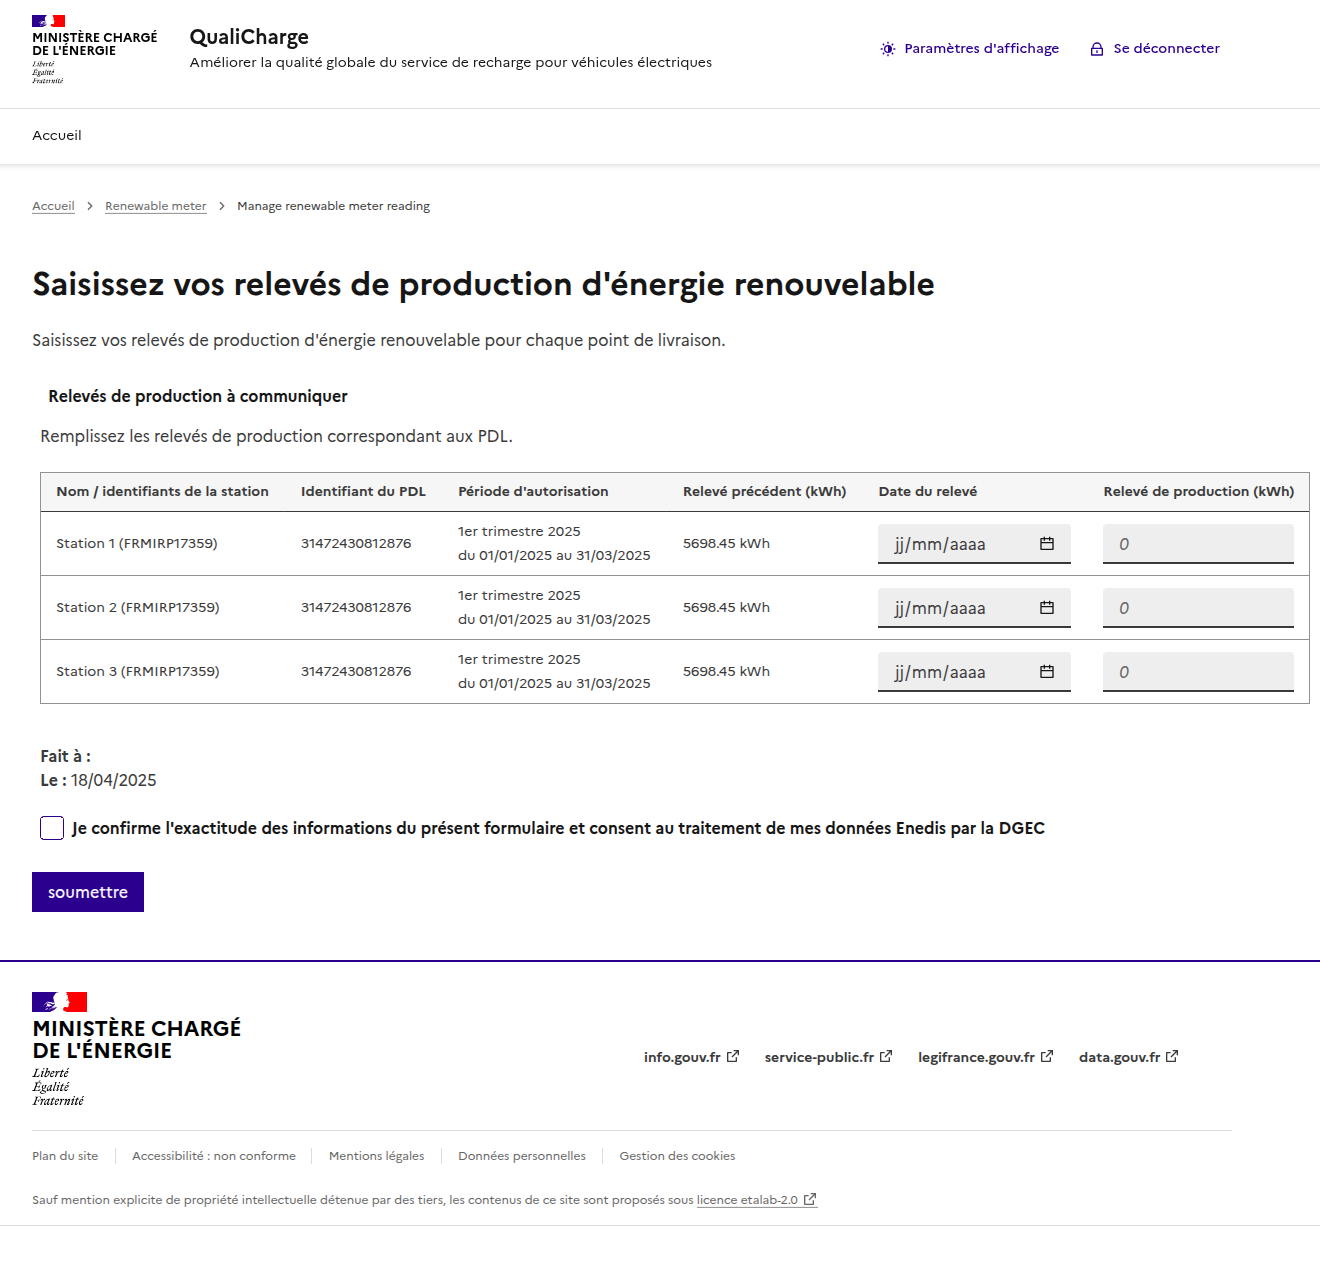
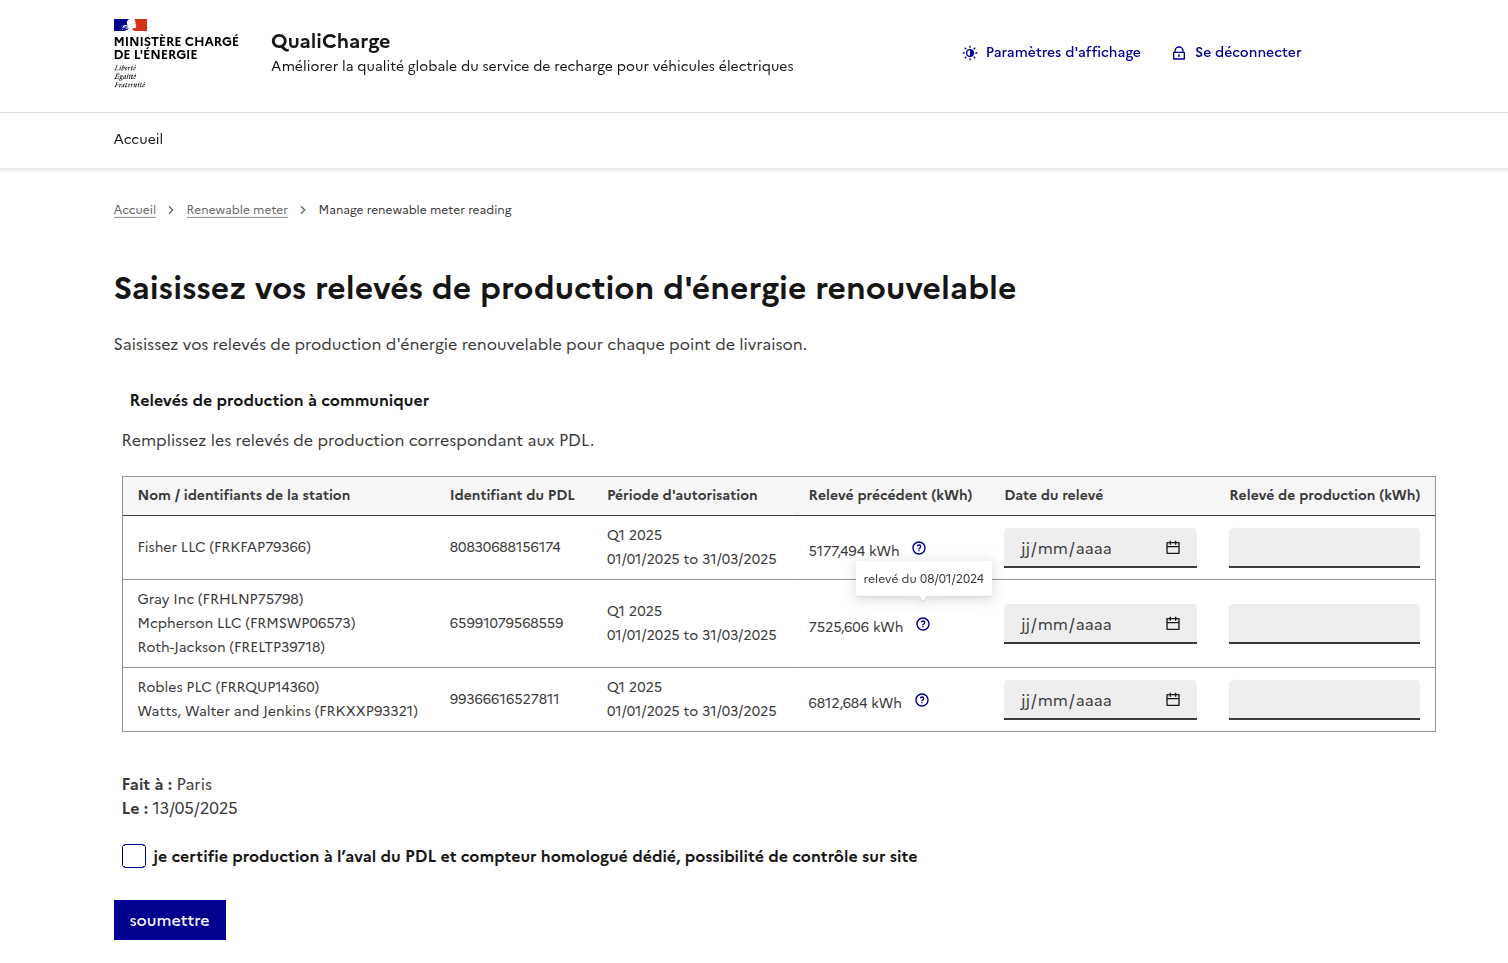
🚸(dashboard) add last meter reading and collection date to renewables
Incorporated `last_meter_reading` and `last_collected_at` fields into renewable delivery points, enhancing query annotations and UI display.
Updated tests to validate these additions and adjusted relevant templates for improved user interaction.

diff --git a/src/dashboard/apps/renewable/templates/renewable/includes/_manage_meters.html b/src/dashboard/apps/renewable/templates/renewable/includes/_manage_meters.html
@@ -68,10 +68,23 @@
                 </td>
 
                 <td>
-                {# todo: add the previous renewable meters and their date #}
-                  -
-                  {# 5698.45 kWh#}
+                  {% with last_renewable=form.delivery_point_obj.last_renewable.0 %}
+                    {{ last_renewable.meter_reading }} kWh
+                    <button class="fr-btn--tooltip fr-btn"
+                            type="button"
+                            id="button-{{ form.delivery_point_obj.provider_assigned_id }}"
+                            aria-describedby="tooltip-{{ form.delivery_point_obj.provider_assigned_id }}">
+                        date du relevé précèdent
+                    </button>
+                    <span class="fr-tooltip fr-placement"
+                          id="tooltip-{{ form.delivery_point_obj.provider_assigned_id }}"
+                          role="tooltip"
+                          aria-hidden="true">
+                      relevé du {{ last_renewable.collected_at|date:"d/m/Y" }}
+                    </span>
+                  {% endwith %}
                 </td>
+
                 <td>
                   <div class="fr-input-group{% if form.collected_at.errors %} fr-input-group--error{% endif %}">
                     {{ form.collected_at }}

diff --git a/src/dashboard/apps/core/tests/test_models.py b/src/dashboard/apps/core/tests/test_models.py
@@ -621,19 +621,28 @@ def test_get_unsubmitted_quarterly_renewables(monkeypatch):
         INITIAL_SIZE, has_renewable=True, is_active=True, entity=entity_with_renewables
     )
 
-    # create renewables for all delivery points
     assert Renewable.objects.count() == 0
+    # Create a previous renewable to test `last_renewable.meter_reading`
+    # and `last_renewable.collected_at`
+    previous_date = "2024-09-20"
+    previous_meter_reading = 1000.5
+    RenewableFactory(
+        delivery_point=dps[1],
+        collected_at=previous_date,
+        meter_reading=previous_meter_reading,
+    )
+    # create older renewables for all delivery points
     RenewableFactory.create_batch(
         size=len(dps),
         delivery_point=factory.Iterator(dps),
-        collected_at="2024-01-01",
+        collected_at="2023-01-01",
     )
     # create submitted renewable for the testing quarter (so, the previous from now)
-    RenewableFactory(
+    submitted_renewable = RenewableFactory(
         delivery_point=dps[0],
         collected_at="2024-12-21",
     )
-    expected_size = 5
+    expected_size = 6
     assert Renewable.objects.count() == expected_size
 
     # test entity without renewables
@@ -644,7 +653,12 @@ def test_get_unsubmitted_quarterly_renewables(monkeypatch):
     renewable_dps = entity_with_renewables.get_unsubmitted_quarterly_renewables()
     expected_size = 3
     assert renewable_dps.count() == expected_size
-    assert all(r.id != dps[0].id for r in renewable_dps)
+    assert all(r.id != submitted_renewable.id for r in renewable_dps)
+
+    # test the `last_renewable.meter_reading` and `last_renewable.collected_at` fields
+    first_dp = renewable_dps.get(id=dps[1].id)
+    assert first_dp.last_renewable[0].meter_reading == previous_meter_reading
+    assert first_dp.last_renewable[0].collected_at.strftime("%Y-%m-%d") == previous_date
 
 
 @pytest.mark.django_db

diff --git a/src/dashboard/apps/core/models.py b/src/dashboard/apps/core/models.py
@@ -189,7 +189,8 @@ class Entity(DashboardBase):
             - the date range for the previous quarter,
             - fetching already submitted renewable delivery points for the previous
             quarter,
-            - and excluding them from the available renewable delivery points.
+            - excluding them from the available renewable delivery points,
+            - and add previous collected meter reading and last collected at.
 
         Returns:
             QuerySet: A QuerySet of renewable delivery points that still need to be
@@ -206,10 +207,23 @@ class Entity(DashboardBase):
             .values_list("delivery_point__id", flat=True)
         )
 
-        return DeliveryPoint.renewable_objects.filter(
-            entity=self,
-        ).exclude(
-            id__in=submitted_renewables,
+        last_renewable = Renewable.active_objects.filter(
+            collected_at__lt=quarter_start_date
+        ).order_by("-collected_at")[:1]
+
+        return (
+            DeliveryPoint.renewable_objects.filter(
+                entity=self,
+            )
+            .exclude(
+                id__in=submitted_renewables,
+            )
+            .prefetch_related(
+                models.Prefetch(
+                    "renewables", queryset=last_renewable, to_attr="last_renewable"
+                )
+            )
+            .select_related("entity")
         )
 
     def count_renewables(self) -> int:
